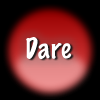
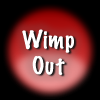
fixed title link, changed delete game button to wimp out button

Changed region(s): [[0.21, 0.27, 0.78, 0.78]]

diff --git a/templates/base.html b/templates/base.html
@@ -21,7 +21,7 @@
       <div class="grid_6" id="main">
 
 	{% block header %}
-	  <div id="header"><h1><a href="/">Truth or Dare</a></h1></div>
+	  <div id="header"><h1>Truth or Dare</h1><a href="/"><img src="/media/images/title.png" alt="Truth or Dare" /></a></div>
 	{% endblock header %}
 
 	<div id="content">

diff --git a/media/css/site.css b/media/css/site.css
@@ -42,8 +42,6 @@ a
 
 #header
 {
-    background-image: url("/media/images/title.png");
-    background-repeat: no-repeat;
     margin-top:2em;
     height: 70px;
     color: white;
